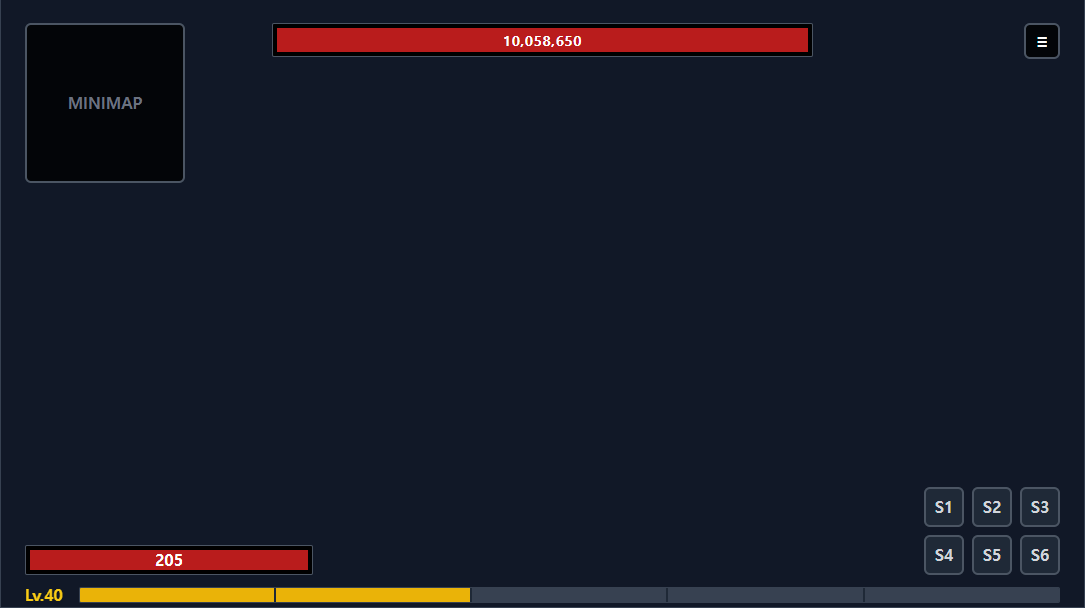
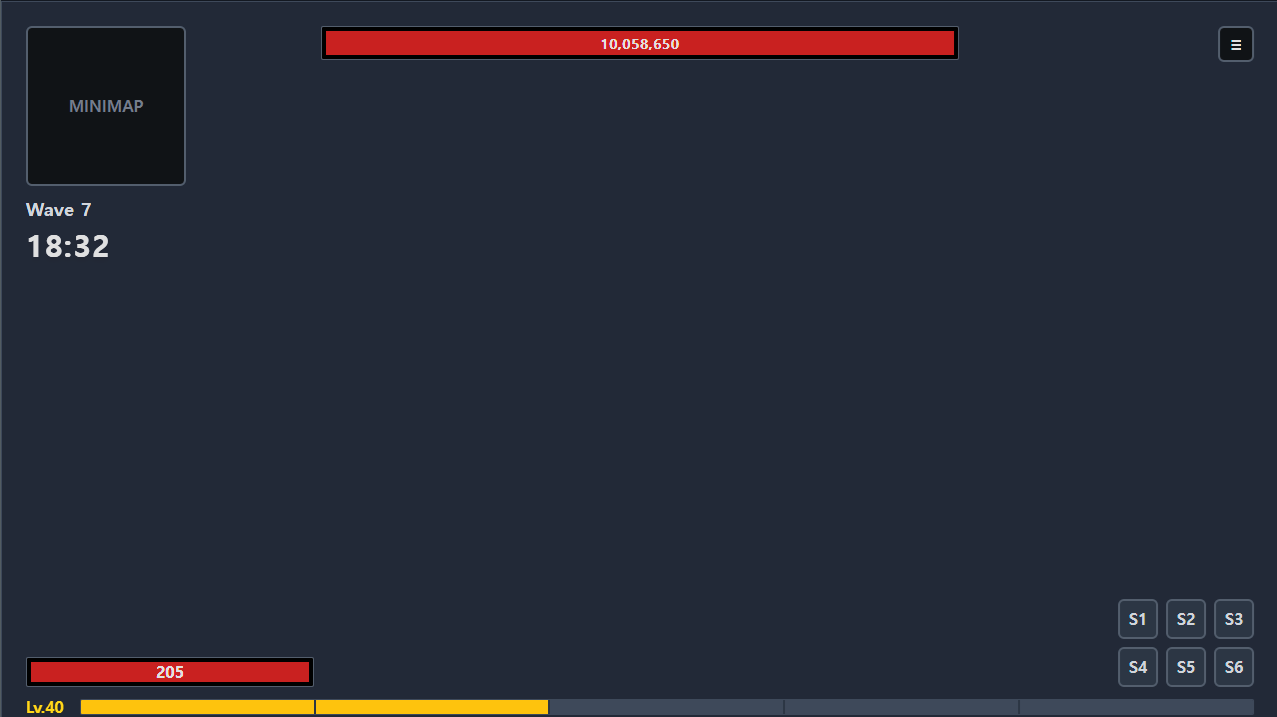
docs(hud-layout): 목업에 웨이브·타이머 추가 — 실제 HUD와 싱크
목업(hud-layout.html/.png)에 웨이브·타이머가 빠져 있어 구현과 어긋나 있었다.
계획 문서(2026-07-02-hud-layout-plan.md §3.4)의 최종 레이아웃대로 미니맵 아래
좌상단에 `Wave 7` + `18:32`(mm:ss 카운트다운) 블록을 추가해 청사진을 실제
HUD 배치와 일치시킨다. 재캡처한 미리보기 PNG도 함께 갱신했다.

diff --git a/docs/decisions/hud-layout.html b/docs/decisions/hud-layout.html
@@ -26,6 +26,11 @@
          <div class="absolute top-6 left-6 w-40 h-40 bg-black/80 border-2 border-gray-600 rounded-md flex items-center justify-center">
             <span class="text-gray-500 font-bold">MINIMAP</span>
          </div>
+         <!-- 왼쪽 상단(미니맵 아래): 웨이브 + 생존 타이머 (mm:ss 카운트다운) -->
+         <div class="absolute top-48 left-6 flex flex-col gap-1">
+            <div class="text-gray-300 font-bold text-lg tracking-wide">Wave 7</div>
+            <div class="text-white font-bold text-3xl tabular-nums tracking-wider drop-shadow-md">18:32</div>
+         </div>
          <!-- 상단 영역: 보스 체력 -->
          <div class="absolute top-6 left-1/4 right-1/4">
             <div class="bg-black border border-gray-600 p-1 rounded-sm">
